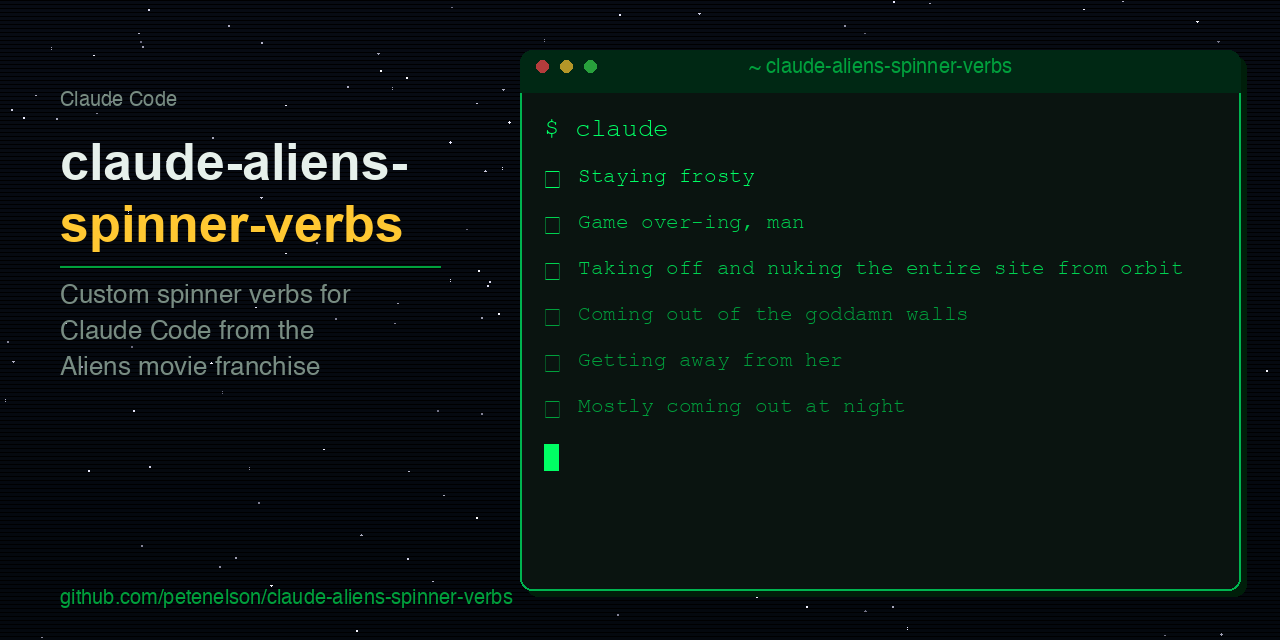
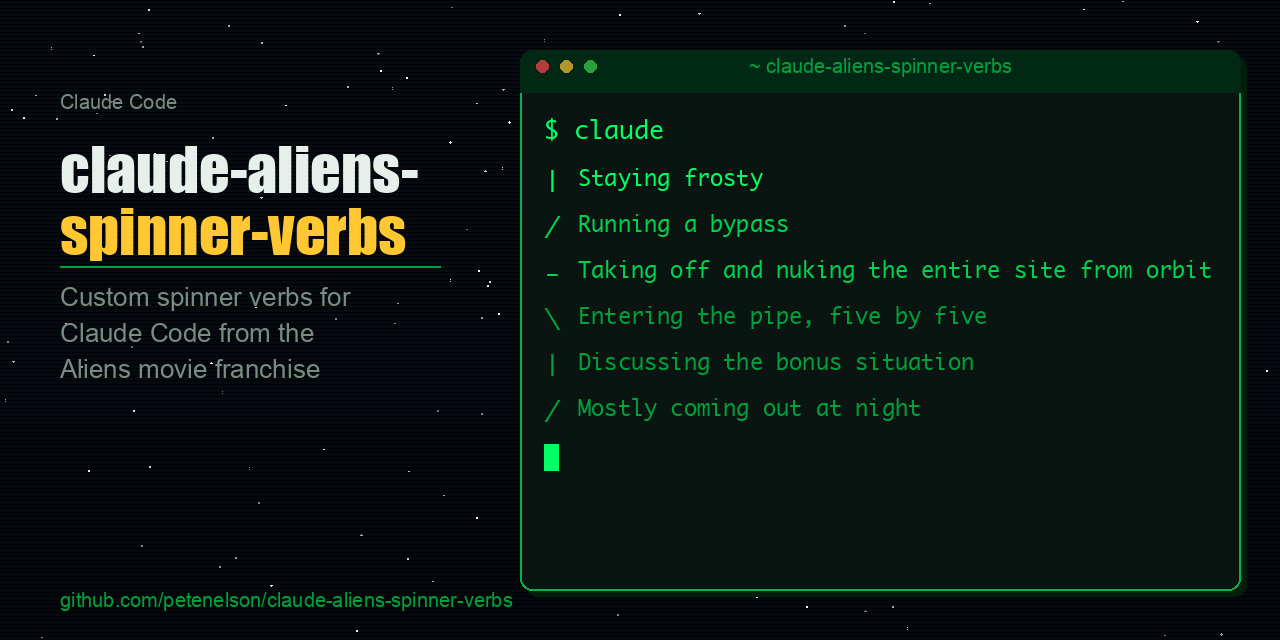
updated og-image

diff --git a/generate_og_image.py b/generate_og_image.py
@@ -1,0 +1,193 @@
+#!/usr/bin/env python3
+"""Generate a social media OG image for claude-aliens-spinner-verbs."""
+
+import random
+from PIL import Image, ImageDraw, ImageFont
+
+WIDTH, HEIGHT = 1280, 640
+OUT = "og-image.png"
+
+# Color palette — dark space / green phosphor terminal
+BG_TOP     = (8, 12, 20)
+BG_BOTTOM  = (4, 8, 14)
+STAR_COLOR = (200, 220, 255)
+TERM_BG    = (10, 20, 16)
+TERM_BORDER= (0, 180, 80)
+GREEN_DIM  = (0, 160, 60)
+GREEN_BRIGHT = (0, 255, 100)
+GREEN_MID  = (0, 210, 80)
+WHITE      = (230, 240, 235)
+GRAY       = (120, 140, 130)
+ACCENT     = (255, 200, 50)   # amber for the repo name
+
+SPINNER_CHARS = ["|", "/", "-", "\\", "|", "/", "-", "\\"]
+
+VERBS = [
+    "Staying frosty",
+    "Running a bypass",
+    "Taking off and nuking the entire site from orbit",
+    "Entering the pipe, five by five",
+    "Discussing the bonus situation",
+    "Mostly coming out at night",
+    "Being an ultimate badass",
+    "Eating cornbread",
+]
+
+def gradient_bg(draw, w, h):
+    for y in range(h):
+        t = y / h
+        r = int(BG_TOP[0] * (1-t) + BG_BOTTOM[0] * t)
+        g = int(BG_TOP[1] * (1-t) + BG_BOTTOM[1] * t)
+        b = int(BG_TOP[2] * (1-t) + BG_BOTTOM[2] * t)
+        draw.line([(0, y), (w, y)], fill=(r, g, b))
+
+def draw_stars(draw, w, h, seed=42):
+    rng = random.Random(seed)
+    for _ in range(180):
+        x = rng.randint(0, w)
+        y = rng.randint(0, h)
+        brightness = rng.randint(100, 255)
+        size = rng.choice([1, 1, 1, 2])
+        alpha = rng.randint(80, 200)
+        col = (brightness, brightness, min(255, brightness + 30), alpha)
+        draw.ellipse([x, y, x+size, y+size], fill=(brightness, brightness, min(255, brightness+20)))
+
+def rounded_rect(draw, box, radius, fill, outline=None, outline_width=1):
+    x0, y0, x1, y1 = box
+    draw.rounded_rectangle([x0, y0, x1, y1], radius=radius, fill=fill,
+                            outline=outline, width=outline_width)
+
+def try_font(names, size):
+    for name in names:
+        try:
+            return ImageFont.truetype(name, size)
+        except Exception:
+            pass
+    return ImageFont.load_default()
+
+def main():
+    img = Image.new("RGB", (WIDTH, HEIGHT))
+    draw = ImageDraw.Draw(img)
+
+    gradient_bg(draw, WIDTH, HEIGHT)
+    draw_stars(draw, WIDTH, HEIGHT)
+
+    # Subtle scanline texture
+    for y in range(0, HEIGHT, 4):
+        draw.line([(0, y), (WIDTH, y)], fill=(0, 0, 0, 20))
+
+    # Fonts
+    mono_paths = [
+        "/System/Library/Fonts/Monaco.ttf",
+        "/System/Library/Fonts/Supplemental/Courier New.ttf",
+        "/usr/share/fonts/truetype/dejavu/DejaVuSansMono.ttf",
+    ]
+    sans_paths = [
+        "/System/Library/Fonts/Supplemental/Arial.ttf",
+        "/System/Library/Fonts/Helvetica.ttc",
+        "/Library/Fonts/Arial.ttf",
+    ]
+    bold_paths = [
+        "/System/Library/Fonts/Supplemental/Impact.ttf",
+        "/System/Library/Fonts/Supplemental/Arial Bold.ttf",
+        "/Library/Fonts/Arial Bold.ttf",
+        "/System/Library/Fonts/Helvetica.ttc",
+    ]
+    font_title  = try_font(bold_paths, 60)
+    font_sub    = try_font(sans_paths, 26)
+    font_label  = try_font(sans_paths, 20)
+    font_term   = try_font(mono_paths, 25)
+    font_term_sm= try_font(mono_paths, 22)
+    font_spin   = try_font(mono_paths, 28)
+
+    # ── Left panel: title block ──────────────────────────────────────────
+    left_x = 60
+    title_y = 90
+
+    # "claude code" small label
+    draw.text((left_x, title_y), "Claude Code", font=font_label, fill=GRAY)
+
+    # Repository name
+    title_y += 42
+    draw.text((left_x, title_y), "claude-aliens-", font=font_title, fill=WHITE)
+    title_y += 62
+    draw.text((left_x, title_y), "spinner-verbs", font=font_title, fill=ACCENT)
+
+    # Divider
+    title_y += 72
+    draw.line([(left_x, title_y), (left_x + 380, title_y)], fill=GREEN_DIM, width=2)
+    title_y += 16
+
+    # Subtitle
+    draw.text((left_x, title_y), "Custom spinner verbs for", font=font_sub, fill=GRAY)
+    title_y += 36
+    draw.text((left_x, title_y), "Claude Code from the", font=font_sub, fill=GRAY)
+    title_y += 36
+    draw.text((left_x, title_y), "Aliens movie franchise", font=font_sub, fill=GRAY)
+
+    # URL at bottom left
+    draw.text((left_x, HEIGHT - 52), "github.com/petenelson/claude-aliens-spinner-verbs",
+              font=font_label, fill=GREEN_DIM)
+
+    # ── Right panel: terminal window ─────────────────────────────────────
+    term_x0 = 520
+    term_y0 = 50
+    term_x1 = WIDTH - 40
+    term_y1 = HEIGHT - 50
+    term_w  = term_x1 - term_x0
+
+    # Terminal shadow
+    rounded_rect(draw, [term_x0+6, term_y0+6, term_x1+6, term_y1+6],
+                 radius=12, fill=(0, 30, 10))
+
+    # Terminal body
+    rounded_rect(draw, [term_x0, term_y0, term_x1, term_y1],
+                 radius=12, fill=TERM_BG, outline=TERM_BORDER, outline_width=2)
+
+    # Title bar
+    bar_y1 = term_y0 + 42
+    rounded_rect(draw, [term_x0, term_y0, term_x1, bar_y1],
+                 radius=12, fill=(0, 40, 20))
+    draw.rectangle([term_x0, term_y0+20, term_x1, bar_y1], fill=(0, 40, 20))
+
+    # Traffic-light dots
+    dot_y = term_y0 + 16
+    for i, col in enumerate([(180, 60, 60), (180, 150, 40), (40, 160, 60)]):
+        cx = term_x0 + 22 + i * 24
+        draw.ellipse([cx-6, dot_y-6, cx+6, dot_y+6], fill=col)
+
+    # Title bar label
+    bar_label = "~ claude-aliens-spinner-verbs"
+    draw.text((term_x0 + term_w//2, term_y0 + 8), bar_label,
+              font=font_label, fill=GREEN_DIM, anchor="mt")
+
+    # Prompt line
+    prompt_y = bar_y1 + 22
+    draw.text((term_x0 + 24, prompt_y), "$ claude", font=font_term, fill=GREEN_BRIGHT)
+
+    # Spinner verb lines
+    line_y = prompt_y + 50
+    line_h  = 46
+
+    for i, verb in enumerate(VERBS[:6]):
+        spin = SPINNER_CHARS[i % len(SPINNER_CHARS)]
+        if i == 0:
+            color = GREEN_BRIGHT
+        elif i < 3:
+            color = GREEN_MID
+        else:
+            color = GREEN_DIM
+
+        draw.text((term_x0 + 24, line_y), spin, font=font_spin, fill=color)
+        draw.text((term_x0 + 58, line_y), verb, font=font_term_sm, fill=color)
+        line_y += line_h
+
+    # Blinking cursor block after last line
+    cur_x = term_x0 + 24
+    draw.rectangle([cur_x, line_y + 4, cur_x + 14, line_y + 30], fill=GREEN_BRIGHT)
+
+    img.save(OUT)
+    print(f"Saved {OUT}  ({WIDTH}×{HEIGHT})")
+
+if __name__ == "__main__":
+    main()
